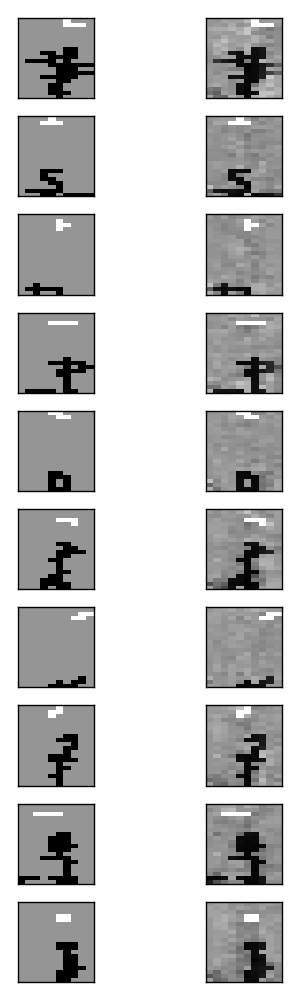
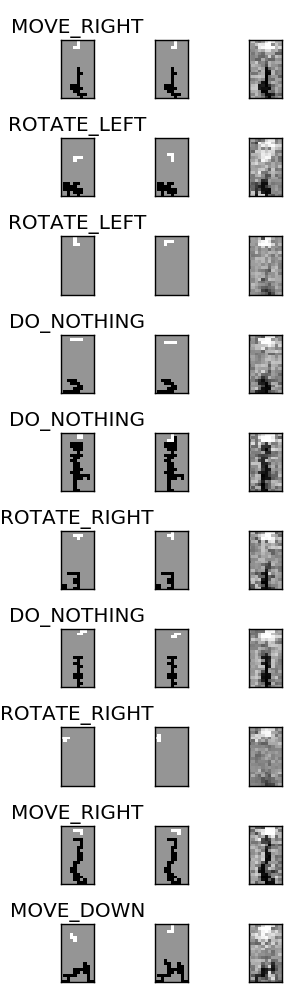
Combine a few of our theano theories

diff --git a/src/tetris/tetris_theano.py b/src/tetris/tetris_theano.py
@@ -7,26 +7,27 @@ import numpy as np
 import theano
 import theano.tensor as T
 from theano.tensor.nnet.conv import conv2d
+from theano.sandbox.rng_mrg import MRG_RandomStreams as RandomStreams
 import math
 
 class DenseLayer(object):
     def __init__(self, n_input, n_output):
-        m = 1/ math.sqrt(n_input)
+        m = 1 / math.sqrt(n_input)
         W = (m * np.random.randn(n_output, n_input)).astype(theano.config.floatX)
         b = np.zeros((n_output,)).astype(theano.config.floatX)
         self.W = theano.shared(value=W, name='W', borrow=True)
         self.b = theano.shared(value=b, name='b', borrow=True)
         self.params = [self.W, self.b]
 
-    def output(self, x):
+    def output(self, x, a):
         return T.tanh(T.dot(self.W, x) + self.b)
 
 class Flatten(object):
     def __init__(self):
         self.params = []
 
-    def output(self, x):
-        return T.flatten(x)
+    def output(self, x, a):
+        return T.flatten(T.concatenate([T.flatten(x), T.flatten(a)], axis=0))
 
 class Conv2DLayer(object):
     def __init__(self, n_filters, n_cols, n_rows):
@@ -38,9 +39,23 @@ class Conv2DLayer(object):
         self.b = theano.shared(value=b, name='b', borrow=True)
         self.params = [self.W, self.b]
 
-    def output(self, x):
+    def output(self, x, a):
         x = T.reshape(x, (1,1,20,10))
         return T.tanh(conv2d(x, self.W) + self.b.dimshuffle('x', 0, 'x', 'x'))
+
+class Dropout(object):
+    def __init__(self, p=0.5):
+        self.p = p
+        self.params = []
+
+    def output(self, x, a):
+        p = self.p
+        srng = RandomStreams()
+        if p > 0:
+            retain_prob = 1 - p
+            x *= srng.binomial(x.shape, p=retain_prob, dtype=theano.config.floatX)
+            x /= retain_prob
+        return x
 
 class Model(object):
 
@@ -57,18 +72,18 @@ class Model(object):
         self.layers.append(layer)
         self.params += layer.params
         
-    def output(self, x):
+    def output(self, x, a):
         for layer in self.layers:
-            x = layer.output(x)
+            x = layer.output(x, a)
         return x
 
-    def predict(self, x):
-        return self.predict_function(x)
+    def predict(self, x, a):
+        return self.predict_function(x, a)
 
-    def squared_error(self, x, y):
-        return T.sum((self.output(x) - y) ** 2)
+    def squared_error(self, x, a, y):
+        return T.sum((self.output(x, a) - y) ** 2)
 
-    def sgd(self, cost, params, lr=0.1):
+    def sgd(self, cost, params, lr=0.01):
         grads = T.grad(cost=cost, wrt=params)
         updates = []
         for p, g in zip(params, grads):
@@ -77,23 +92,21 @@ class Model(object):
 
     def compile(self):
         input = T.vector('input')
+        action = T.vector('action')
         target = T.vector('target')
-        cost_function = self.squared_error(input, target)
-        self.train_function = theano.function([input, target],
+        cost_function = self.squared_error(input, action, target)
+        self.train_function = theano.function([input, action, target],
                                 cost_function,
                                 updates=self.sgd(cost_function, self.params, self.learning_rate))
-        output_function = self.output(input)
-        self.predict_function = theano.function([input], output_function)
+        output_function = self.output(input, action)
+        self.predict_function = theano.function([input, action], output_function)
 
-    def train(self, X, Y, n_epochs):
+    def train(self, X, A, Y, n_epochs):
         start = time.time()
         epoch = 0
-        print(X.shape)
-        print(Y.shape)
         while epoch < n_epochs:
-            for x, y in zip(X, Y):
-                current_cost = self.train_function(x, y)
+            for x, a, y in zip(X, A, Y):
+                current_cost = self.train_function(x, a, y)
             epoch += 1
         print('Training {} samples over {} epochs took {}s'.format(X.shape[0], n_epochs, time.time() - start))
-        print(self.params)
         return current_cost

diff --git a/src/tetris/tetris_agent.py b/src/tetris/tetris_agent.py
@@ -127,11 +127,11 @@ class Agent():
         if self.rolled_over_buffer:
             self.rolled_over_buffer = False
             mask = np.random.rand(BUFFER_SIZE) < 0.8
-            X_train, Y_train = self.training_data_for_indexes(mask)
-            self.model.train(X1_train, Y_train, 1)
-            self.draw_output(X1_train, Y_train)
+            X1_train, X2_train, Y_train = self.training_data_for_indexes(mask)
+            self.model.train(X1_train, X2_train, Y_train, 1)
+            self.draw_output(X1_train, X2_train, Y_train)
 
-    def draw_output(self, X_train, Y_train):
+    def draw_output(self, X_train, A_train, Y_train):
         plt.axis('off')
         n_cols = 10
         n_rows = 3
@@ -142,12 +142,19 @@ class Agent():
             frame.axes.get_xaxis().set_visible(False)
             frame.axes.get_yaxis().set_visible(False)
             x = np.reshape(X_train[j], (20,10))
+            plt.title(POSSIBLE_MOVE_NAMES[np.where(A_train[j] == 1)[0]])
             plt.pcolor(x, cmap=plt.get_cmap('Greys'), vmin=-1, vmax=1)
+
+            frame = plt.subplot(n_cols,n_rows,3*i+2)
+            frame.axes.get_xaxis().set_visible(False)
+            frame.axes.get_yaxis().set_visible(False)
+            y = np.reshape(Y_train[j], (20,10))
+            plt.pcolor(y, cmap=plt.get_cmap('Greys'), vmin=-1, vmax=1)
 
             frame = plt.subplot(n_cols,n_rows,3*i+3)
             frame.axes.get_xaxis().set_visible(False)
             frame.axes.get_yaxis().set_visible(False)
-            y = np.reshape(self.model.predict(X_train[j]), (20,10))
+            y = np.reshape(self.model.predict(X_train[j], A_train[j]), (20,10))
             plt.pcolor(y, cmap=plt.get_cmap('Greys'), vmin=-1, vmax=1)
             if i == 0:
                 print(y)
@@ -170,14 +177,20 @@ class Agent():
     #             np.reshape(self.states_t1[indexes], (-1,self.output_size())))
 
     def training_data_for_indexes(self, indexes):
+        actions = np.array([np.array(POSSIBLE_MOVES == a, dtype=np.float32).flatten() for a in self.actions[indexes]])
         return (np.reshape(self.states_t0[indexes], (-1,200)),
+                actions,
                 np.reshape(self.states_t1[indexes], (-1,self.output_size())))
 
     def init_model(self):
+        n_filters = 128
+        n_cols = 3
+        n_rows = 3
+        layer1_input = n_filters * (20 - n_cols + 1) * (10 - n_rows + 1) + len(POSSIBLE_MOVES)
         self.model = tetris_theano.Model([
-                tetris_theano.Conv2DLayer(64, 4, 4),
+                tetris_theano.Conv2DLayer(n_filters, n_cols, n_rows),
                 tetris_theano.Flatten(),
-                tetris_theano.DenseLayer(64*17*7, 256),
-                tetris_theano.DenseLayer(256, self.output_size())
+                tetris_theano.Dropout(0.25),
+                tetris_theano.DenseLayer(layer1_input, self.output_size())
             ])
         self.model.compile()
